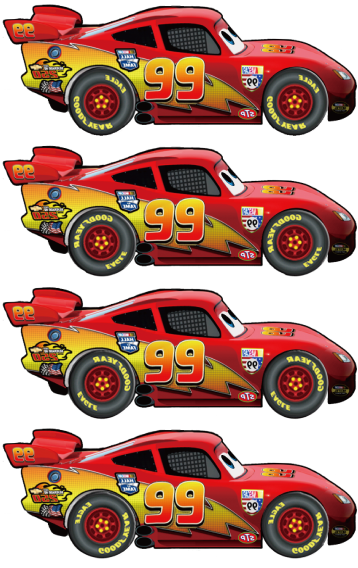
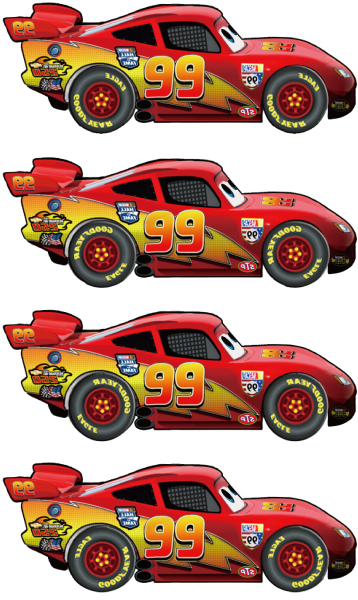
Add new peo

diff --git a/slide/demo/cars/js/main.js b/slide/demo/cars/js/main.js
@@ -10,7 +10,9 @@ var currentstate;
 var currentNum;
 
 var origwidth = 358.0;
-var origheight = 142.0;
+var origheight = 150.0;
+
+var peowidth = 101.0;
 
 var pipeheight = 350;
 var pipewidth = 52;
@@ -37,15 +39,12 @@ var loopPipeloop;
 var temp;
 var arrive;
 
+var userName;
 $(document).ready(function() {
    //get userName
    var arrParameter = [];
    arrParameter = parseParameter(document.URL);
-   var userName = getParaValue(arrParameter,"userName");
-   comLogin(userName, 0,function(num){
-      console.log("num = " + num );
-      currentNum = num;
-   });
+   userName = getParaValue(arrParameter,"userName");
 
    //start with the splash screen
    showSplash();
@@ -83,7 +82,7 @@ function startGame()
    currentstate = states.GameScreen;
 
    loopGameloop = setInterval(gameloop, 100);
-   loopPipeloop = setInterval(updatePipes, 10000);
+   loopPipeloop = setInterval(updatePipes, 6000);
    comSetMoveCallback(updatePlayerPosition);
 }
 
@@ -99,7 +98,7 @@ function updatePlayer(player)
    }
    else if(player.selector === "#player2") 
    {
-   	$(player).css({ left: 0, width: origwidth, height: origheight});
+   	$(player).css({ left: 0, width: peowidth, height: origheight});
    }
    else {
    	$(player).css({ left: 0, width: origwidth, height: origheight});
@@ -127,8 +126,6 @@ function updatePlayerPosition(lanenum,position){
 
    temp = arrive/maxposition;
 
-
-
    if(i==0){
       $("#player").css({ left: arrive, width: origwidth, height: origheight});
       if((position[0]-position[1])>10){
@@ -137,9 +134,9 @@ function updatePlayerPosition(lanenum,position){
          $("#player1").css({ left: temp*position[1]*0.7, width: origwidth, height: origheight});
       }
       if((position[0]-position[2])>10){
-         $("#player2").css({ left: -250, width: origwidth, height: origheight});
+         $("#player2").css({ left: -250, width: peowidth, height: origheight});
       } else {
-         $("#player2").css({ left: temp*position[2]*0.7, width: origwidth, height: origheight});
+         $("#player2").css({ left: temp*position[2]*0.7, width: peowidth, height: origheight});
       }
 
    } else if (i==1){
@@ -151,12 +148,12 @@ function updatePlayerPosition(lanenum,position){
          $("#player").css({ left: temp*position[0]*0.7, width: origwidth, height: origheight});
       }
        if((position[1]-position[2])>10){
-         $("#player2").css({ left: -250, width: origwidth, height: origheight});
+         $("#player2").css({ left: -250, width: peowidth, height: origheight});
       } else {
-         $("#player2").css({ left: temp*position[2]*0.7, width: origwidth, height: origheight});
+         $("#player2").css({ left: temp*position[2]*0.7, width: peowidth, height: origheight});
       }
    } else {
-      $("#player2").css({ left: arrive, width: origwidth, height: origheight});
+      $("#player2").css({ left: arrive, width: peowidth, height: origheight});
 
       if((position[2]-position[0])>10){
          $("#player").css({ left: -250, width: origwidth, height: origheight});
@@ -284,44 +281,48 @@ function screenClick()
    {
       playerJump(currentNum);
    }
-   else if(currentstate == states.SplashScreen)
+   else if(currentstate == states.SplashScreen) /*press ready*/
    {
          currentstate = states.CountScreen;
          $("#splash").stop();
          $("#splash").transition({ opacity: 0 }, 500, 'ease');
-      comSetGameOpenCallback( function(){
+         comLogin(userName, 0,function(num){
+            console.log("num = " + num );
+            currentNum = num;
+         });
+        comSetGameOpenCallback( function(){
 
-         $("#trafficlight").show();
+           $("#trafficlight").show();
 
-         var stop=window.setInterval(function(){
-             count++;
-             console.log(count);
-             $('.light'+count+'').find('.redlight').addClass('active');
+           var stop=window.setInterval(function(){
+               count++;
+               console.log(count);
+               $('.light'+count+'').find('.redlight').addClass('active');
 
-             if(count<6){
-               soundHit.play();
-             }
+               if(count<6){
+                 soundHit.play();
+               }
 
-             if(count==6){
-                 console.log('stop');
-                 $('.greenlight').addClass('active');
-                 $('.redlight').removeClass('active');
-                 window.clearInterval(stop);
-                 count=0;
+               if(count==6){
+                   console.log('stop');
+                   $('.greenlight').addClass('active');
+                   $('.redlight').removeClass('active');
+                   window.clearInterval(stop);
+                   count=0;
 
-                 $("#goicon").show();
-                 soundGo.play();
-                 setTimeout(function() {
-                    $('.greenlight').removeClass('active');
-                    $("#goicon").hide();
-                    $("#trafficlight").hide();
-                     comReady();
-                     comSetGoCallback(startGame);
-                     // startGame();
-                 }, 1000);
-             }
-         }, 1000);
-      }
+                   $("#goicon").show();
+                   soundGo.play();
+                   setTimeout(function() {
+                      $('.greenlight').removeClass('active');
+                      $("#goicon").hide();
+                      $("#trafficlight").hide();
+                       comReady();
+                       comSetGoCallback(startGame);
+                       // startGame();
+                   }, 1000);
+               }
+           }, 1000);
+        }
       );
 
       

diff --git a/slide/demo/cars/css/main.css b/slide/demo/cars/css/main.css
@@ -49,12 +49,12 @@
    to { background-position: 0px -568px; }
 }
 @-webkit-keyframes animCar2 {
-   from { background-position: 0px 0px; }
-   to { background-position: 0px -568px; }
+   from { background-position: 0px 100%; }
+   to { background-position: -2626px 100%; }
 }
 @keyframes animCar2 {
-   from { background-position: 0px 0px; }
-   to { background-position: 0px -568px; }
+   from { background-position: 0px 100%; }
+   to { background-position: -2626px 100%; }
 }
 
 
@@ -263,10 +263,10 @@ Screen - Game
    position: absolute;
    width: 34px;
    height: 24px;
-   background-image: url('../assets/car.png');
+   background-image: url('../assets/runing.png');
    background-repeat: no-repeat;
-   -webkit-animation: animCar2 300ms steps(4) infinite;
-   animation: animCar2 300ms steps(4) infinite;
+   -webkit-animation: animCar2 200ms steps(26) infinite;
+   animation: animCar2 200ms steps(26) infinite;
 }
 
 
@@ -279,8 +279,8 @@ Screen - Game
    height: 100%;
    z-index: 10;
 
-   -webkit-animation: animPipe 30000ms linear;
-   animation: animPipe 30000ms linear;
+   -webkit-animation: animPipe 40000ms linear;
+   animation: animPipe 40000ms linear;
 }
 
 .pipe_upper
